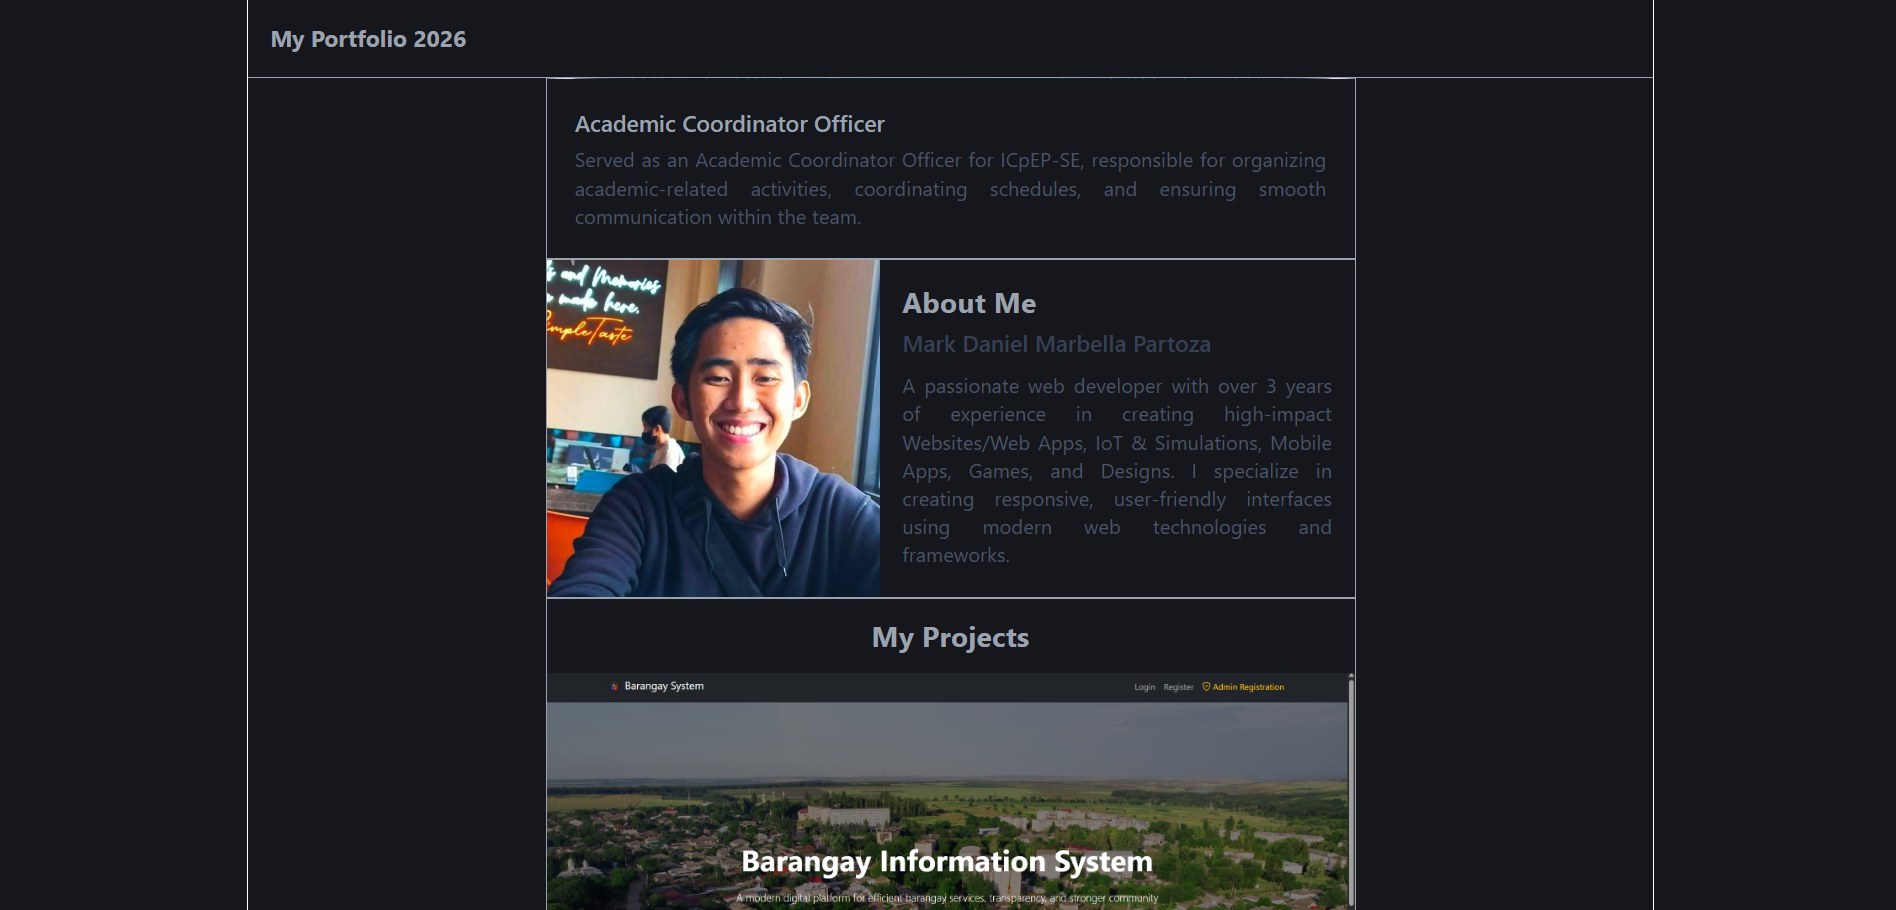
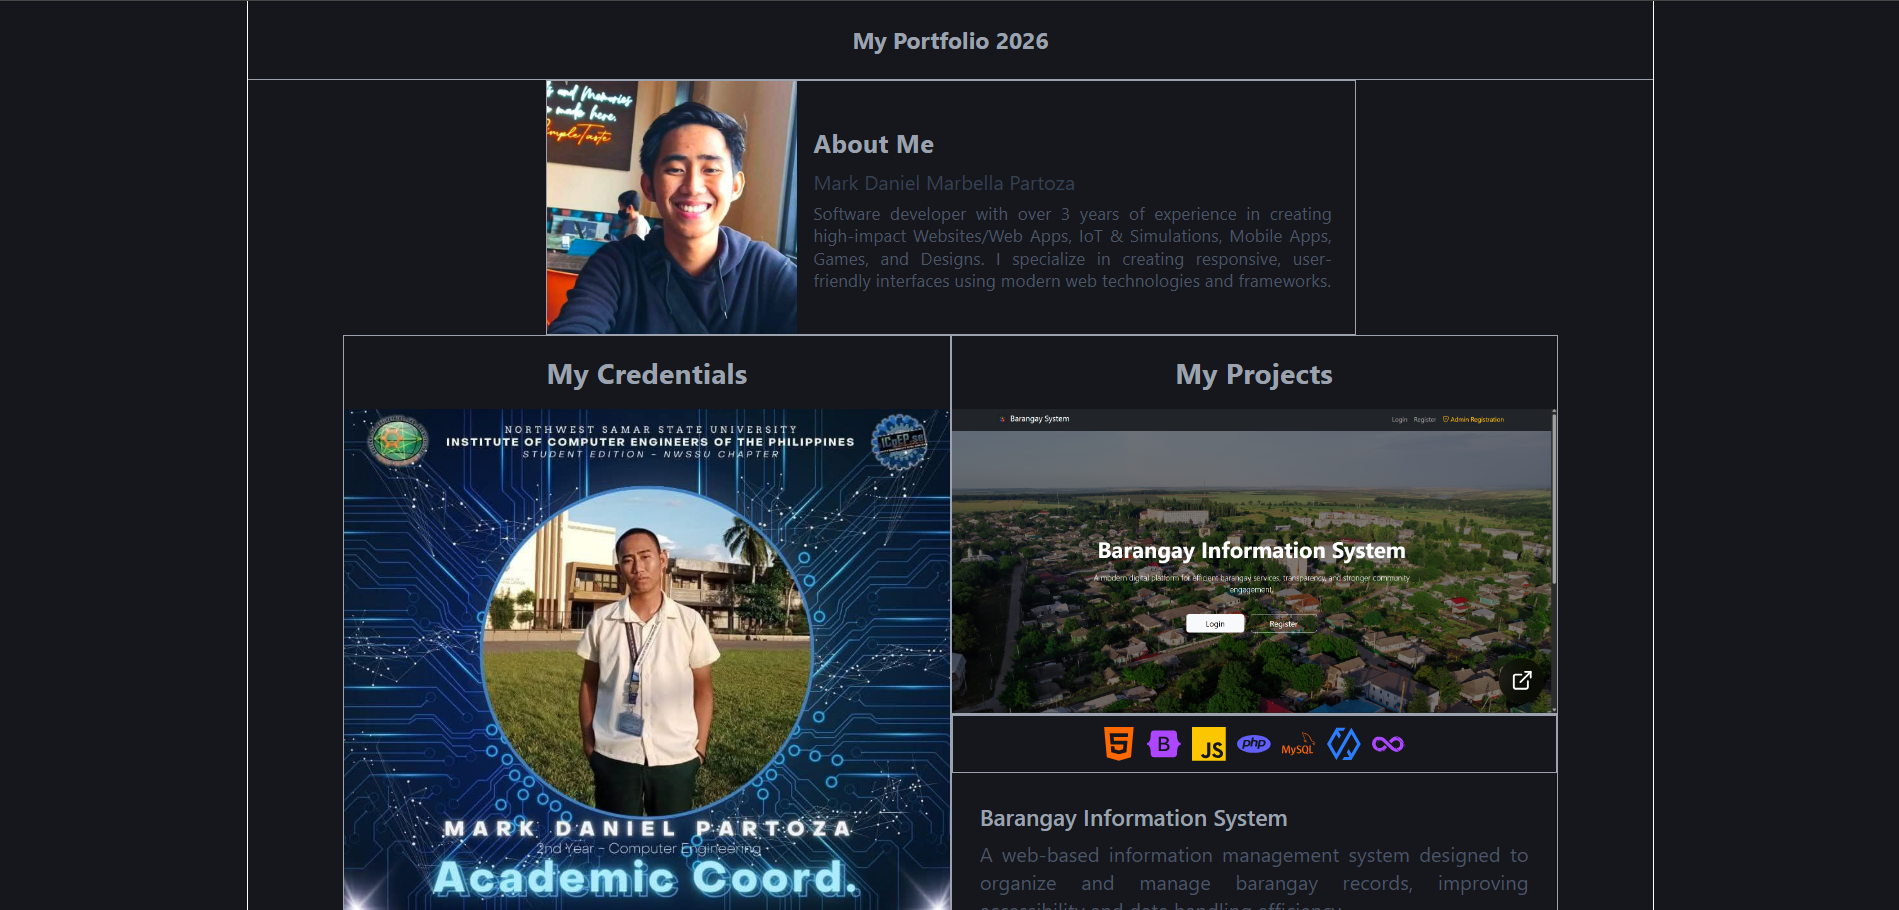
Commit

diff --git a/src/pages/projects.tsx b/src/pages/projects.tsx
@@ -158,7 +158,7 @@ const projects = [
   {
     img: BarangayInfoSystem,
     title: "Barangay Information System",
-    desc: "A web-based information management system designed to organize and manage barangay records, improving accessibility and data handling efficiency.",
+    desc: "A web-based information management system designed to organize and manage barangay records, improving accessibility and data handling efficiency. It enhances efficiency by providing a structured and user-friendly interface for handling data and better service delivery within the barangay.",
     category: "Website",
     link: "a",
     tools: [
@@ -576,7 +576,7 @@ function Projects({ expanded }: { expanded: boolean }) {
     <div className="grid grid-cols-1 place-items-center">
       {/* PREVIEW MODE (ONLY FIRST PROJECT) */}
       {!expanded && (
-        <div className="relative max-w-xl mx-auto border hover:transition duration-300 cursor-pointer">
+        <div className="relative max-w-xl mx-auto hover:transition duration-300 cursor-pointer">
           <h1 className="text-xl font-bold text-center m-3">My Projects</h1>
           <img
             src={projects[0].img}
@@ -620,7 +620,7 @@ function Projects({ expanded }: { expanded: boolean }) {
           <div className="grid grid-cols-1 mx-5">
             <h1 className="text-xl font-bold text-center mt-3">My Projects</h1>
             {/* CATEGORY BUTTONS */}
-            <CategoryContainer classname="flex my-4 gap-2 flex-wrap justify-center">
+            <CategoryContainer classname="flex mt-4 mb-2 gap-2 flex-wrap justify-center">
               {categories.map((cat) => (
                 <Button
                   key={cat}
@@ -636,8 +636,11 @@ function Projects({ expanded }: { expanded: boolean }) {
               ))}
             </CategoryContainer>
             {filteredProjects.map((project, index) => (
-              <div className="relative max-w-xl mx-auto border" key={index}>
-                <div className="relative max-w-xl mx-auto border" key={index}>
+              <div
+                className="relative max-w-xl mx-auto border my-3 rounded-lg"
+                key={index}
+              >
+                <div className="relative max-w-xl mx-auto" key={index}>
                   {project.link && project.link !== "#" ? (
                     <a
                       href={project.link}
@@ -645,14 +648,14 @@ function Projects({ expanded }: { expanded: boolean }) {
                       rel="noopener noreferrer"
                     >
                       <img
-                        className="w-full hover:cursor-pointer"
+                        className="w-full rounded-t-lg hover:cursor-pointer"
                         src={project.img}
                         alt={project.title}
                       />
                     </a>
                   ) : (
                     <img
-                      className="w-full"
+                      className="w-full rounded-t-lg"
                       src={project.img}
                       alt={project.title}
                     />

diff --git a/src/pages/about.tsx b/src/pages/about.tsx
@@ -9,7 +9,7 @@ const profile = {
     location: "Philippines",
   },
   summary:
-    "A passionate web developer with over 3 years of experience in creating high-impact Websites/Web Apps, IoT & Simulations, Mobile Apps, Games, and Designs. I specialize in creating responsive, user-friendly interfaces using modern web technologies and frameworks.",
+    "Software developer with over 3 years of experience in creating high-impact Websites/Web Apps, IoT & Simulations, Mobile Apps, Games, and Designs. I specialize in creating responsive, user-friendly interfaces using modern web technologies and frameworks.",
 
   skills: [
     "HTML",
@@ -51,8 +51,8 @@ function about({ expanded }: { expanded: boolean }) {
     <div className="grid grid-cols-1">
       {/* PREVIEW MODE */}
       {!expanded && (
-        <div className="border hover:transition duration-300 cursor-pointer w-full max-w-xl mx-auto">
-          <div className="grid grid-cols-[140px_1fr] items-start md:grid-cols-2">
+        <div className="md:border hover:transition duration-300 cursor-pointer w-full max-w-xl mx-auto">
+          <div className="grid grid-cols-[140px_1fr] md:grid-cols-[200px_1fr] items-start">
             {/* IMAGE */}
             <div>
               <img
@@ -63,14 +63,14 @@ function about({ expanded }: { expanded: boolean }) {
             </div>
 
             {/* INFO */}
-            <div className="text-start self-center pl-3 pr-3 md:p-5">
-              <h2 className="font-bold mb-1 text-sm md:text-xl">About Me</h2>
+            <div className="text-start self-center pl-3 pr-3 md:p-3">
+              <h2 className="font-bold mb-1 text-sm md:text-lg">About Me</h2>
 
-              <h3 className="text-gray-700 mb-1 text-xs md:text-lg">
+              <h3 className="text-gray-700 mb-1 text-xs md:text-sm">
                 {profile.name}
               </h3>
 
-              <p className="text-gray-600 text-justify text-xs md:text-sm max-h-16 md:max-h-full overflow-y-auto pr-1">
+              <p className="text-gray-600 text-justify text-xs max-h-16 md:max-h-full overflow-y-auto pr-1">
                 {profile.summary}
               </p>
             </div>
@@ -85,7 +85,11 @@ function about({ expanded }: { expanded: boolean }) {
 
           <div className="max-w-xl w-full">
             <div className="flex justify-center w-full">
-              <img className="p-5 w-80" src={profile.img} alt={profile.name} />
+              <img
+                className="m-5 w-80 rounded-lg"
+                src={profile.img}
+                alt={profile.name}
+              />
             </div>
 
             <div className="border max-w-xl mx-auto p-5 text-justify">

diff --git a/src/App.tsx b/src/App.tsx
@@ -28,25 +28,39 @@ function App() {
 
       <main className="flex-grow">
         {isPreview && (
-          <div className="grid grid-cols-1 place-items-center">
-            <div className="mx-5" onClick={() => open("credentials")}>
-              <Credentials expanded={false} />
-            </div>
+          <>
+            <div className="grid grid-cols-1 m-5">
+              <div className="hidden md:block" onClick={() => open("about")}>
+                <About expanded={false} />
+              </div>
+              <div className="grid grid-cols-1 md:grid-cols-2 md:my-5">
+                <div
+                  className="md:ml-auto md:w-[90%] border md:mx-2 md:rounded-lg"
+                  onClick={() => open("credentials")}
+                >
+                  <Credentials expanded={false} />
+                </div>
 
-            <div className="mx-5" onClick={() => open("about")}>
-              <About expanded={false} />
-            </div>
+                <div
+                  className="border my-5 md:hidden"
+                  onClick={() => open("about")}
+                >
+                  <About expanded={false} />
+                </div>
 
-            <div className="mx-5" onClick={() => open("projects")}>
-              <Projects expanded={false} />
+                <div
+                  className="md:mr-auto md:w-[90%] border md:mx-2 md:rounded-lg"
+                  onClick={() => open("projects")}
+                >
+                  <Projects expanded={false} />
+                </div>
+              </div>
+              <div className="mt-5 md:m-0" onClick={() => open("certificates")}>
+                <Certificates expanded={false} />
+              </div>
             </div>
-
-            <div className="mx-5" onClick={() => open("certificates")}>
-              <Certificates expanded={false} />
-            </div>
-
             <Contact />
-          </div>
+          </>
         )}
 
         {!isPreview && (

diff --git a/src/pages/certificates.tsx b/src/pages/certificates.tsx
@@ -78,7 +78,7 @@ function certificates({ expanded }: { expanded: boolean }) {
     <>
       {!expanded && (
         <div className="grid grid-cols-1">
-          <div className="border max-w-xl mx-auto hover:transition duration-300 cursor-pointer">
+          <div className="border md:rounded-lg max-w-xl mx-auto hover:transition duration-300 cursor-pointer">
             <h1 className="text-xl font-bold text-center m-3">
               My Certificates
             </h1>
@@ -93,15 +93,19 @@ function certificates({ expanded }: { expanded: boolean }) {
       {expanded && (
         <>
           <div className="grid grid-cols-1 mx-5">
-            <h1 className="text-xl font-bold text-center m-3">
+            <h1 className="text-xl font-bold text-center mt-3">
               My Certificates
             </h1>
             {imagesPath.map((project, index) => (
               <div
-                className="border max-w-xl mx-auto hover:transition duration-300"
+                className="border max-w-xl mx-auto hover:transition duration-300 my-3 rounded-lg"
                 key={index}
               >
-                <img src={project.img} alt={project.title} />
+                <img
+                  className="rounded-t-lg"
+                  src={project.img}
+                  alt={project.title}
+                />
                 <div className="text-center p-5 md:text-justify">
                   <h3 className="font-semibold">{project.title}</h3>
                   <p className="mt-1 text-gray-600 text-sm">{project.desc}</p>

diff --git a/src/pages/credentials.tsx b/src/pages/credentials.tsx
@@ -42,7 +42,7 @@ function Credentials({ expanded }: { expanded: boolean }) {
   return (
     <div className="grid grid-cols-1">
       {!expanded && (
-        <div className="border hover:duration-300 cursor-pointer w-full max-w-xl mx-auto text-center">
+        <div className="hover:duration-300 cursor-pointer w-full max-w-xl mx-auto text-center">
           <h1 className="text-xl font-bold text-center m-3">My Credentials</h1>
           <div className="flex justify-center">
             <img
@@ -61,18 +61,18 @@ function Credentials({ expanded }: { expanded: boolean }) {
       {expanded && (
         <>
           <div className="grid grid-cols-1 mx-5">
-            <h1 className="text-xl font-bold text-center m-3">
+            <h1 className="text-xl font-bold text-center mt-3">
               My Credentials
             </h1>
 
             {imagesPath.map((project, index) => (
               <div
                 key={index}
-                className="border hover:w-full max-w-xl mx-auto text-center"
+                className="border hover:w-full max-w-xl mx-auto text-center my-3 rounded-lg"
               >
                 <div className="flex justify-center">
                   <img
-                    className="w-full"
+                    className="w-full rounded-t-lg"
                     src={project.img}
                     alt={project.title}
                   />

diff --git a/src/components/header.tsx b/src/components/header.tsx
@@ -7,7 +7,9 @@ function Header({
 }) {
   return (
     <div className="sticky top-0 left-0 w-full z-50 border-b p-2 bg-[#16171d]">
-      <div className="max-w-5xl mx-auto flex items-center justify-between font-bold">
+      <div
+        className={`max-w-5xl mx-auto flex items-center font-bold ${showBack ? "justify-between" : "justify-center"}`}
+      >
         <div className="p-2">My Portfolio 2026</div>
 
         {showBack && (

diff --git a/src/pages/contacts.tsx b/src/pages/contacts.tsx
@@ -13,7 +13,7 @@ import { MdEmail } from "react-icons/md";
 function Contacts() {
   return (
     <div className="grid grid-cols-1 place-items-center mx-5 ">
-      <div className="border p-4">
+      <div className="pb-4 pl-4 pr-4">
         <h2 className="text-2xl font-bold mb-5">Contact Me</h2>
 
         <div className="flex justify-center flex-wrap gap-4 mb-8">

diff --git a/src/components/footer.tsx b/src/components/footer.tsx
@@ -1,7 +1,7 @@
 function Footer() {
   return (
-    <div className="border-t-1 w-full">
-      <div className="p-3 text-center">All Rights Reserved</div>
+    <div className="p-3 border-t-1 text-center text-sm text-gray-400">
+      © {new Date().getFullYear()} Mark Daniel Partoza. All rights reserved.
     </div>
   );
 }
